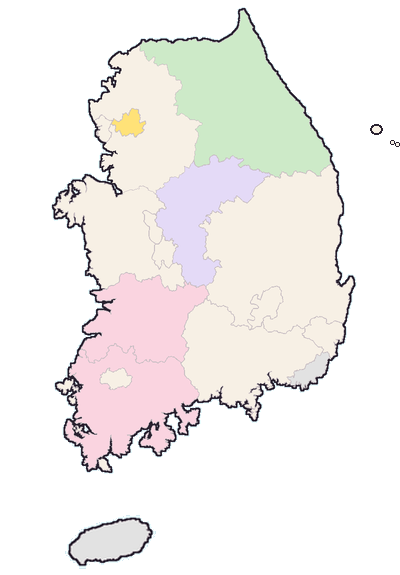
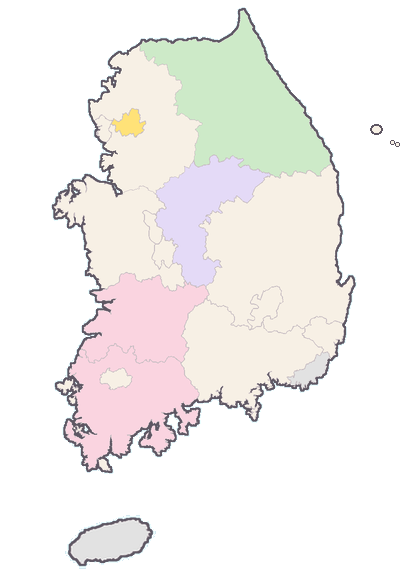
Add files via upload

diff --git a/js/main.js b/js/main.js
@@ -9,13 +9,13 @@
     // 인앱 브라우저(카톡·LINE)는 innerHeight가 실제 보이는 높이보다 크게 잡힐 때가 있어 가장 작은 값을 사용
     var vh = Math.min(window.innerHeight, document.documentElement.clientHeight || 9999, window.visualViewport ? window.visualViewport.height : 9999);
     var key = w + "x" + Math.round(vh / 20); if (key === lastW) return; lastW = key;
-    var bar = document.querySelector(".bar"), bh = bar ? bar.getBoundingClientRect().height + 24 : 100;
+    var bar = document.querySelector(".bar"), bh = bar ? bar.getBoundingClientRect().height + 10 : 100;
     var s = w / 390, avail = (vh - bh) / s;
     // 하늘색 박스는 항상 화면 폭. 짧은 화면: ① 박스 아래를 제주도 절반까지만 보이게 자르고(430) ② 그래도 모자라면 지도를 비율 그대로 축소
     // 제목과 박스 사이 간격은 8의 배수(28px)로 넉넉하게
-    var compact = avail < 700, top = compact ? 164 : 186;
+    var compact = avail < 700, top = compact ? 164 : 188;
     var full = 344 / 366, vis = compact ? 462 : 481; // vis: 박스에 보일 지도 높이(제주도 절반 = 462)
-    var mh = Math.min(vis * full, Math.max(320, avail - top - 14)), k = mh / vis;
+    var mh = Math.min(vis * full + 46, Math.max(320, avail - top - 4)), k = mh / vis;
     $("stage").classList.toggle("compact", compact);
     var mb = document.querySelector(".mapbox"); mb.style.top = top + "px"; mb.style.height = mh + "px"; mb.style.transform = "";
     var kk = Math.min(k, full); $("mapin").style.transform = "scale(" + kk + ")";
@@ -27,14 +27,18 @@
 
   // 슬라이드: 상세페이지 대표사진 5장과 동일 (첫 장만 메인용 세로 크롭)
   var JD = K.products["jeonju-damyang"], cmap = {}; JD.gallery.forEach(function (g) { cmap[g[0]] = g[1]; });
-  var imgs = JD.hero.map(function (k, i) { return i === 0 ? "jd_main1" : k; });
-  var caps = JD.heroCaps || JD.hero.map(function (k, i) { return i === 0 ? "冬の韓服でおさんぽ（全州）" : (cmap[k] || ""); });
+  var imgs = JD.hero.map(function (k, i) { return i === 0 ? "jd_main1" : k; }).concat(["jd_pnb", "jd_bg"]);
+  var caps = (JD.heroCaps || JD.hero.map(function (k, i) { return i === 0 ? "冬の韓服でおさんぽ（全州）" : (cmap[k] || ""); })).concat(["PNB 手作りチョコパイ（全州）", "バゲットバーガー（全州）"]);
   var sl = $("slides"), n = imgs.length, cur = -1;
   sl.innerHTML = imgs.map(function (k) { return '<div style="background-image:url(' + K.img(k) + ')"></div>'; }).join("");
   $("dots").innerHTML = imgs.map(function () { return "<i></i>"; }).join("");
   $("th").innerHTML = JD.hero.map(function (k, i) { return '<button style="background-image:url(' + K.img(i === 0 ? JD.thumb0 : k) + ')" aria-label="写真' + (i + 1) + '"></button>'; }).join("");
   K.dragScroll(sl);
   function go(i) { sl.scrollTo({ left: sl.clientWidth * i, behavior: "smooth" }); }
+  // 손가락을 따라 움직이다가, 놓을 때 30px 이상 밀었으면 다음/이전 장으로 (절반 넘기지 않아도 넘어감)
+  var tx = 0, ty = 0, tb = 0;
+  sl.addEventListener("touchstart", function (e) { var t = e.touches[0]; tx = t.clientX; ty = t.clientY; tb = Math.round(sl.scrollLeft / sl.clientWidth); }, { passive: true });
+  sl.addEventListener("touchend", function (e) { var t = e.changedTouches[0], dx = t.clientX - tx, dy = t.clientY - ty; if (Math.abs(dx) < 30 || Math.abs(dx) < Math.abs(dy)) return; go(Math.max(0, Math.min(n - 1, tb + (dx < 0 ? 1 : -1)))); }, { passive: true });
   function upd(force) {
     var i = Math.round(sl.scrollLeft / sl.clientWidth); if (i === cur && !force) return; cur = i;
     if ($("cnt")) $("cnt").textContent = (i + 1) + "/" + n; if ($("cap")) $("cap").textContent = caps[i];
@@ -83,7 +87,7 @@
     var lb = $("likeBox"), c = $("mainCta");
     lb.classList.add("empty"); $("jpTag").hidden = true; $("mcard").hidden = true; $("mapin").removeAttribute("data-sel"); document.querySelectorAll(".mtag .q").forEach(function (q) { q.textContent = "≒ ？"; });
     c.classList.add("off"); c.setAttribute("aria-disabled", "true"); c.href = "#"; c.removeAttribute("data-go");
-    $("ctaMain").textContent = "地図からエリアを選んでください"; $("ctaSub").textContent = "";
+    $("ctaMain").textContent = "タップしてチェック！"; $("ctaSub").textContent = "";
   }
   function setRegion(id) {
     var p = K.products[id], lb = $("likeBox"), c = $("mainCta"), j = JP[id], t = $("jpTag");
@@ -97,7 +101,7 @@
     lb.classList.remove("pop"); void lb.offsetWidth; lb.classList.add("pop");
   }
   var tt = $("totop"); window.addEventListener("scroll", function () { tt.classList.toggle("on", window.scrollY > 900); }, { passive: true }); tt.onclick = function () { window.scrollTo({ top: 0, behavior: "smooth" }); K.track("to_top", { product: "main" }); };
-  $("mainCta").addEventListener("click", function (e) { if (this.classList.contains("off")) { e.preventDefault(); K.toast("地図からエリアを選んでください"); } else K.track("select_item", { product: this.getAttribute("data-go"), place: "main_bar" }); });
+  $("mainCta").addEventListener("click", function (e) { if (this.classList.contains("off")) { e.preventDefault(); K.toast("タップしてチェック！"); } else K.track("select_item", { product: this.getAttribute("data-go"), place: "main_bar" }); });
   document.querySelectorAll("[data-region]").forEach(function (a) {
     a.addEventListener("click", function (e) {
       e.preventDefault(); var id = a.getAttribute("data-region"), off = a.classList.contains("on");
@@ -119,5 +123,5 @@
   sn.innerHTML = h;
 
   if ($("share")) $("share").onclick = function () { K.share({ title: "ここいこ｜ソウル発 日帰り韓国旅", text: "ソウルの外へ、本当の韓国を感じる旅。", medium: "main", content: "main" }); };
-  if ($("lineTop")) $("lineTop").onclick = function (e) { e.preventDefault(); K.track("line_click", { place: "main_header" }); if (K.LINE_ADD_URL) location.href = K.LINE_ADD_URL; else K.toast("LINE公式アカウントは準備中です"); };
+  if ($("lineTop")) $("lineTop").onclick = function (e) { e.preventDefault(); K.track("line_click", { place: "main_header" }); if (K.LINE_ADD_URL) location.href = K.LINE_ADD_URL; else K.toast("ただいま準備中です"); };
 })();

diff --git a/js/product.js b/js/product.js
@@ -104,7 +104,7 @@
     '<div class="sec"><div class="chips">' + (p.ichioshi ? '<span class="c-ichi">イチオシ</span>' : '') + '<span class="c-season' + (p.season.tone ? ' ' + p.season.tone : '') + '">' + K.icon(p.season.icon, "currentColor", 14) + p.season.label + '</span></div>' +
       '<h1>' + p.name + '</h1><div class="sub">ソウル発 日帰り ・ ' + p.timeShort + ' ・ 送迎バス付き</div>' +
       '<a class="rvrow" href="#voices">' + K.icon("star", "#F5A623", 17) + '<b>' + (vAvg || "0.0") + '</b><i>・</i><u>レビュー ' + V.length + '件</u></a>' +
-      '<div class="locrow">' + K.icon("pin", "#9A929E", 17) + '<span>' + K.MEETING.ja + '</span><a href="' + K.MEETING.map + '" target="_blank" rel="noopener" id="gmap0">地図を見る</a></div>' +
+      '<div class="locrow">' + K.icon("pin", "#9A929E", 17) + '<span>' + K.MEETING.ja + '</span><a href="#meetmap" id="gmap0">詳しい場所</a></div>' +
       '</div>' +
     voicesHtml() +
     '<div class="sec" id="pick"><div class="h2row"><h2>いつ参加しますか？</h2><button class="calk" id="calOpen">' + CAL + 'カレンダーで見る ›</button></div>' +
@@ -117,7 +117,7 @@
     (p.reviews && p.reviews.length ? '<div class="sec"><h2>体験レビュー</h2><div class="rv">' + p.reviews.map(function (r) { return '<div style="background-image:url(' + img(r) + ')"></div>'; }).join("") + '</div></div>' : '') + // 후기 사진이 생기면 data.js 에 reviews: ["파일명", ...] 추가
     '<div class="sec warnsec"><div class="warn"><div class="wt">' + K.icon("warn", "#C82158", 19) + 'ご予約前に必ずご確認ください</div>' + K.warn.map(function (w, i) { return '<div class="wc"><b><i class="wn">' + (i + 1) + '</i>' + w[0] + '</b><p>' + w[1] + '</p></div>'; }).join("") + '</div></div>' +
     '<div class="sec"><h2 style="margin-bottom:12px">集合場所</h2>' +
-      '<div class="mpc"><div class="mpm"><iframe loading="lazy" tabindex="-1" aria-hidden="true" title="集合場所の地図" src="https://maps.google.com/maps?q=%EC%9E%A0%EC%8B%A4%EC%97%AD&z=15&hl=ja&output=embed"></iframe>' +
+      '<div class="mpc" id="meetmap"><div class="mpm"><iframe loading="lazy" tabindex="-1" aria-hidden="true" title="集合場所の地図" src="https://maps.google.com/maps?q=%EC%9E%A0%EC%8B%A4%EC%97%AD&z=15&hl=ja&output=embed"></iframe>' +
         '<a class="mlink" href="' + K.MEETING.map + '" target="_blank" rel="noopener" id="gmap" aria-label="Googleマップで開く"></a><i class="mpin">' + PIN + '</i>' +
         '<span class="gbadge"><b>G</b><b>o</b><b>o</b><b>g</b><b>l</b><b>e</b></span><span class="mexp">' + EXP + '</span></div>' +
         '<a class="mrow" href="' + K.MEETING.map + '" target="_blank" rel="noopener" id="gmap2"><b>' + K.MEETING.ja + '</b><i>›</i></a>' +
@@ -142,7 +142,15 @@
   var $ = function (x) { return document.getElementById(x); };
 
   // 상단 바: 사진을 지나면 흰 바
-  function onScroll() { $("dtop").classList.toggle("solid", window.scrollY > $("dhero").offsetHeight - 60); }
+  // V25: 내리면 숨기고, 올리면 다시 나타남 (사진 구간에서는 항상 보임)
+  var lastY = window.scrollY;
+  function onScroll() {
+    var y = window.scrollY, past = y > $("dhero").offsetHeight - 60, d = y - lastY, bar = $("dtop");
+    bar.classList.toggle("solid", past);
+    if (!past) { bar.classList.remove("hide"); lastY = y; }
+    else if (d > 8) { bar.classList.add("hide"); lastY = y; }
+    else if (d < -8) { bar.classList.remove("hide"); lastY = y; }
+  }
   window.addEventListener("scroll", onScroll, { passive: true }); onScroll();
   $("shareTop").onclick = function () { K.share({ title: p.title + "｜ここいこ", text: "ソウル発 日帰り ≒ " + p.like, medium: "detail", content: id }); };
 
@@ -217,8 +225,9 @@
     if (navigator.clipboard) navigator.clipboard.writeText(t).then(ok, ok); else ok();
     K.track("copy_address", { product: id });
   };
-  document.querySelectorAll("[data-vinv]").forEach(function (el) { el.addEventListener("click", function (e) { K.track("review_invite", { product: id }); if (!K.LINE_ADD_URL) { e.preventDefault(); K.toast("LINE公式アカウントは準備中です"); } }); });
-  ["gmap0", "gmap", "gmap2"].forEach(function (g) { $(g).addEventListener("click", function () { K.track("open_map", { product: id, place: g }); }); });
+  document.querySelectorAll("[data-vinv]").forEach(function (el) { el.addEventListener("click", function (e) { K.track("review_invite", { product: id }); if (!K.LINE_ADD_URL) { e.preventDefault(); K.toast("ただいま準備中です"); } }); });
+  ["gmap", "gmap2"].forEach(function (g) { $(g).addEventListener("click", function () { K.track("open_map", { product: id, place: g }); }); });
+  $("gmap0").addEventListener("click", function (e) { e.preventDefault(); K.track("open_map", { product: id, place: "gmap0" }); $("meetmap").scrollIntoView({ behavior: "smooth", block: "center" }); });
 
   // ---------- 예약 선택 (상세·캘린더 시트 공통: 날짜 → 시간·집합장소 → 인원) ----------
   function save() {}
@@ -303,7 +312,7 @@
   $("sGo").onclick = function () { goCheckout(sp); };
   $("wait").onclick = function (e) {
     e.preventDefault(); K.track("waitlist_click", { product: id, date: sp.date });
-    if (K.LINE_ADD_URL) location.href = K.LINE_ADD_URL; else K.toast("LINE公式アカウントは準備中です");
+    if (K.LINE_ADD_URL) location.href = K.LINE_ADD_URL; else K.toast("ただいま準備中です");
   };
 
   K.getDates(p).then(function (d) {
@@ -313,4 +322,11 @@
   });
   K.fillYen().then(render);
   K.track("view_item", { product: id, value: p.priceKrw, currency: "KRW" });
+
+  // 상세 히어로 영상: 재생 중이면 playing 클래스로 플레이 아이콘 숨김
+  [].forEach.call(document.querySelectorAll(".hv video"), function (v) {
+    var box = v.parentNode;
+    v.addEventListener("playing", function () { box.classList.add("playing"); });
+    v.addEventListener("pause", function () { box.classList.remove("playing"); });
+  });
 })();

diff --git a/index.html b/index.html
@@ -27,15 +27,15 @@
       <div class="mapin" id="mapin">
       <img src="assets/img/map.png" alt="韓国の地図">
       <svg width="328" height="472" viewBox="0 0 400 575">
-<g class="routes" fill="none" stroke="#C82158" stroke-width="3.5" stroke-dasharray="7 7" stroke-linecap="round"><path data-r="gangneung" d="M128 122 C180 95 250 100 296 124"/><path data-r="danyang" d="M128 122 C170 150 220 170 250 182"/><path data-r="jeonju-damyang" d="M128 122 C120 200 130 280 145 318"/></g>
+<g class="routes" fill="none" stroke="#C82158" stroke-width="3.5" stroke-dasharray="7 7" stroke-linecap="round"><path data-r="gangneung" d="M128 122 C180 95 250 100 296 124"/><path data-r="danyang" d="M128 122 C170 150 220 170 250 182"/><path data-r="jeonju-damyang" d="M128 122 C120 200 130 276 145 313"/></g>
 <g class="rlabs"><text class="rlab" data-r="gangneung" x="158" y="93">2.5h</text><text class="rlab" data-r="danyang" x="199" y="146">3.5h</text><text class="rlab" data-r="jeonju-damyang" x="112" y="220" text-anchor="end">4h</text></g>
 <circle cx="128" cy="122" r="10" fill="#C82158" stroke="#fff" stroke-width="4"/>
-<g class="dests"><path class="pin" data-r="gangneung" d="M 296 124 C 288 114 285 110 285 105 A 11 11 0 1 1 307 105 C 307 110 304 114 296 124 Z"/><circle class="pind" data-r="gangneung" cx="296" cy="105" r="4.2"/><path class="pin" data-r="danyang" d="M 250 182 C 242 172 239 168 239 163 A 11 11 0 1 1 261 163 C 261 168 258 172 250 182 Z"/><circle class="pind" data-r="danyang" cx="250" cy="163" r="4.2"/><path class="pin" data-r="jeonju-damyang" d="M 145 318 C 137 308 134 304 134 299 A 11 11 0 1 1 156 299 C 156 304 153 308 145 318 Z"/><circle class="pind" data-r="jeonju-damyang" cx="145" cy="299" r="4.2"/></g>
+<g class="dests"><path class="pin" data-r="gangneung" d="M 296 124 C 288 114 285 110 285 105 A 11 11 0 1 1 307 105 C 307 110 304 114 296 124 Z"/><circle class="pind" data-r="gangneung" cx="296" cy="105" r="4.2"/><path class="pin" data-r="danyang" d="M 250 182 C 242 172 239 168 239 163 A 11 11 0 1 1 261 163 C 261 168 258 172 250 182 Z"/><circle class="pind" data-r="danyang" cx="250" cy="163" r="4.2"/><path class="pin" data-r="jeonju-damyang" d="M 145 313 C 137 303 134 299 134 294 A 11 11 0 1 1 156 294 C 156 299 153 303 145 313 Z"/><circle class="pind" data-r="jeonju-damyang" cx="145" cy="294" r="4.2"/></g>
 </svg>
       <span class="mtag plain" style="left:56px;top:106px">ソウル発</span>
-      <a class="mtag" href="#gn" data-region="gangneung" style="left:262px;top:49px"><span class="nm2"><span class="rb">カンヌン</span><span class="nmain">江陵 <span class="q" data-q="gangneung">≒ ？</span></span></span></a>
-      <a class="mtag" href="#dy" data-region="danyang" style="left:262px;top:192px"><span class="nm2"><span class="rb">タニャン</span><span class="nmain">丹陽 <span class="q" data-q="danyang">≒ ？</span></span></span></a>
-      <a class="mtag" href="#jd" data-region="jeonju-damyang" style="left:172px;top:302px"><span class="nm2"><span class="rb">チョンジュ・タミャン</span><span class="nmain">全州・潭陽 <span class="q" data-q="jeonju-damyang">≒ ？</span></span></span></a>
+      <a class="mtag" href="#gn" data-region="gangneung" style="left:262px;top:41px"><span class="nm2"><span class="rb">カンヌン</span><span class="nmain">江陵 <span class="q" data-q="gangneung">≒ ？</span></span></span></a>
+      <a class="mtag" href="#dy" data-region="danyang" style="left:268px;top:198px"><span class="nm2"><span class="rb">タニャン</span><span class="nmain">丹陽 <span class="q" data-q="danyang">≒ ？</span></span></span></a>
+      <a class="mtag" href="#jd" data-region="jeonju-damyang" style="left:172px;top:322px"><span class="nm2"><span class="rb">チョンジュ・タミャン</span><span class="nmain">全州・潭陽 <span class="q" data-q="jeonju-damyang">≒ ？</span></span></span></a>
       <span class="kyoto" id="jpTag" hidden>≒ 京都</span>
       <span class="hint2"><svg width="15" height="15" viewBox="0 0 24 24" fill="none" stroke="currentColor" stroke-width="1.8" stroke-linecap="round" stroke-linejoin="round"><path d="M9 11V5.5a1.5 1.5 0 0 1 3 0V11"/><path d="M12 10.5V9a1.5 1.5 0 0 1 3 0v2"/><path d="M15 10.5a1.5 1.5 0 0 1 3 0V15a6 6 0 0 1-6 6h-.6a6 6 0 0 1-4.6-2.2L4.5 16a1.6 1.6 0 0 1 2.4-2.1L9 16"/></svg>タップして選んでね</span>
       </div>
@@ -72,7 +72,7 @@
     </a>
     <a href="danyang.html" id="dy" data-go="danyang">
       <div class="stack">
-        <div class="im" style="background-image:url(assets/img/dy_gs.jpg)"></div>
+        <div class="im" style="background-image:url(assets/img/dy_hero.jpg)"></div>
         <div class="im" style="background-image:url(assets/img/dy_c2.jpg)"></div>
         <div class="im" style="background-image:url(assets/img/dy_c3.jpg)"></div>
       </div>
@@ -90,7 +90,7 @@
 <div class="hint1"><svg width="15" height="15" viewBox="0 0 24 24" fill="none" stroke="currentColor" stroke-width="1.8" stroke-linecap="round" stroke-linejoin="round"><path d="M9 11V5.5a1.5 1.5 0 0 1 3 0V11"/><path d="M12 10.5V9a1.5 1.5 0 0 1 3 0v2"/><path d="M15 10.5a1.5 1.5 0 0 1 3 0V15a6 6 0 0 1-6 6h-.6a6 6 0 0 1-4.6-2.2L4.5 16a1.6 1.6 0 0 1 2.4-2.1L9 16"/></svg>行きたいエリアをタップ</div>
 <div class="bar lg">
   <div class="bprice" id="mainBp" hidden><span id="bpLabel"></span><div><b id="bpYen"></b><small id="bpKrw"></small></div></div>
-  <a class="cta off" id="mainCta" href="#" aria-disabled="true"><span id="ctaMain">地図からエリアを選んでください</span><small id="ctaSub"></small></a>
+  <a class="cta off" id="mainCta" href="#" aria-disabled="true"><span id="ctaMain">タップしてチェック！</span><small id="ctaSub"></small></a>
 </div>
 <script src="js/data.js?v=24"></script>
 <script src="js/common.js?v=24"></script>

diff --git a/js/data.js b/js/data.js
@@ -102,7 +102,7 @@ season: { label: "雪景色 12〜2月", icon: "snow", months: [12, 1, 2] },
       priceKrw: 90000, time: "07:30 出発 ～ 22:30頃 到着", timeShort: "07:30〜22:30頃",
       season: { label: "GW・新緑 4〜5月", icon: "flower", tone: "gw", months: [4, 5] },
       sellDays: [6], gwDates: ["2027-04-29", "2027-05-01", "2027-05-03", "2027-05-04", "2027-05-05"],
-      hero: ["dy_gs", "dy_g3", "dy_g2", "dy_tk"],
+      hero: ["dy_hero", "dy_g3", "dy_g2", "dy_tk"],
       solo: { trans: 154720, entry: 4000, total: 158720, bus: "現地移動だけで<br>約4時間半" },
       legs: [["ソウル（東ソウル）"], ["bus", "バス<sup>＊</sup>", 28100], ["救仁寺"], ["bus", "バス<sup>＊</sup>", 1650], ["グギョン市場"], ["taxi", "タクシー<sup>＊</sup>", 10850], ["スカイウォーク"], ["taxi", "入場料＋タクシー<sup>＊</sup>", 18600], ["島潭三峰"], ["train", "バス＋KTX＋地下鉄", 18600], ["ソウル"]],
       rides: 6,
@@ -117,14 +117,14 @@ season: { label: "雪景色 12〜2月", icon: "snow", months: [12, 1, 2] },
         blocks: [
           { img: "dy_b1", t: "救仁寺（クインサ）", c: "山寺", p: "小白山の谷あいに、色鮮やかなお堂がずらりと並ぶ大寺院。鮮やかな彩色と山の緑に、思わず見とれます。" },
           { img: "dy_b2", t: "丹陽グギョン市場", c: "食べ歩き", p: "名物のにんにくを使ったグルメがずらり。ローカルな活気の中で、自由昼食と食べ歩きを楽しめます。" },
-          { img: "dy_b3", t: "万天下スカイウォーク", c: "絶景", p: "らせん状の展望台を歩いて上ると、眼下に南漢江と丹陽の町並みが一望。空中を歩くようなスリルも。" }
+          { img: "need:만천하 스카이워크", t: "万天下スカイウォーク", c: "絶景", p: "らせん状の展望台を歩いて上ると、眼下に南漢江と丹陽の町並みが一望。空中を歩くようなスリルも。" }
         ],
         food: { kTitle: "K-スイーツ", imgs: [["dy_f1", "黒にんにくパン"], ["dy_f2", "山菜ビビンバ"]], p: "丹陽はにんにくの名産地。市場名物の「黒にんにくパン」や、山の幸たっぷりのビビンバをぜひ。" },
         rec: ["少し高いところから、川の景色をゆっくり眺めたい", "石灰岩がつくる、川に浮かぶ不思議な岩を見てみたい", "“にんにくの里”の名物グルメを、市場で食べ歩きたい"]
       },
-      gallery: [["dy_gs", "万天下スカイウォーク"], ["dy_g3", "救仁寺（クインサ）"], ["dy_g2", "市場の看板猫"], ["dy_tk", "黒にんにくパン"], ["dy_hj", "山菜ビビンバ"]],
+      gallery: [["dy_hero", "小白山（ソベクサン）"], ["dy_g3", "救仁寺（クインサ）"], ["dy_g2", "市場の看板猫"], ["dy_tk", "黒にんにくパン"], ["dy_hj", "山菜ビビンバ"]],
       schedule: [["07:30", "ソウル（蚕室駅）集合・出発"], ["11:00", "救仁寺（自由観光）"], ["13:10", "グギョン市場（自由昼食・食べ歩き）"], ["14:30", "万天下スカイウォーク"], ["16:20", "島潭三峰（トダムサムボン）"], ["17:20", "地元の人気店で自由夕食"], ["18:30 → 22:00〜22:30", "ソウル到着・解散"]],
-      credit: "写真：丹陽郡公式（Instagram）、韓国観光公社"
+      credit: "写真：韓国観光公社"
     }
   },
 

diff --git a/css/style.css b/css/style.css
@@ -947,3 +947,53 @@ footer .cl{text-decoration:underline;text-underline-offset:3px}
 /* meeting-place map: Google colours with saturation slightly lowered (no grey filter, no blue tint) */
 .mpm iframe{filter:grayscale(1) contrast(.75) brightness(1.12)!important}
 .mpm:after{display:none!important}
+/* V25: detail top bar hides on scroll down, returns on scroll up */
+.dtop{transition:background .2s,transform .25s ease}
+.dtop.hide{transform:translateX(-50%) translateY(-100%)}
+/* ===== V25 main ===== */
+/* 1 header up */
+.stage .hd{top:18px}
+/* 3 map labels: bigger, use the blue sea area */
+.mtag:not(.plain){font-size:15.5px}
+.nm2 .rb{font-size:11.5px}
+.mtag .q{font-size:15px;padding:3.75px 11.25px;margin-left:7.5px}
+.mtag.plain{font-size:16.5px}
+.mapbox svg .rlab{font-size:18px}
+/* 4 main bar: always visible (disabled state), same white bar as detail */
+.bar:has(.cta.off){transform:translate(-50%,0)}
+body:has(.cta.off) .barbg{opacity:1}
+.bar.lg{background:none!important;border:0!important;box-shadow:none!important;padding:8px!important}
+/* V25 chips: one box model for every season chip (fixed height, centered both ways) */
+.chip.snow,.mcard .ms,.c-season,.big .g .trow .chip.snow{box-sizing:border-box!important;height:24px!important;padding:2px 8px 0 10px!important;line-height:1!important;display:inline-flex!important;align-items:center!important;justify-content:center!important}
+.chip.snow>*,.mcard .ms>*,.c-season>*{line-height:1}
+/* V25 map moved down */
+.mapin{top:2px!important}
+/* V25 tap effect A: no bounce, no idle shake, 0.2s colour fade only */
+.mtag,.mtag .q{transition:background-color .2s ease,border-color .2s ease,color .2s ease}
+.mtag .q,.mtag.on .q,.mcard.pop #mName,.mcard.pop #mLike{animation:none!important}
+/* V25 no tap highlight / text selection on cards and buttons */
+a,button,.mtag,.cta,.big,.big *,.ichi-card,.mcard,.slides,.slides *{-webkit-tap-highlight-color:transparent}
+.big,.big *,.mtag,.mtag *,.mcard,.mcard *,.bar,.bar *{-webkit-user-select:none;user-select:none;-webkit-touch-callout:none}
+.slides>div{scroll-snap-stop:always}
+.mapbox svg.kmap{pointer-events:none}
+/* V25 main: title block up 8px, region labels: even side padding + roomier row gap */
+.stage .hero{top:72px}
+.stage.compact .hero{top:64px}
+.mtag:not(.plain){height:53px!important;box-sizing:border-box!important;padding:0 16.1px 0 16.4px!important;align-items:center!important}
+.mtag:not(.plain) .nm2{transform:translateY(-1px)}
+.nm2{gap:4px}
+.stage.compact .mtag[data-region="jeonju-damyang"]{left:172px!important;top:308px!important}
+
+.chip.snow svg,.mcard .ms svg,.c-season svg,.big .g .trow .chip svg{width:1em!important;height:1em!important;margin:0!important}
+.mcard{bottom:6px!important}
+body:has(#mainCta) .toast{bottom:87px}
+
+.toast{padding:7px 16px!important}
+.vplay{transition:opacity .25s ease}
+.playing .vplay{opacity:0;transition:opacity .4s ease 1s}
+
+.mprice{margin-top:8px!important}
+
+.info b{color:inherit}
+
+.mpm iframe{filter:saturate(.4) brightness(1.08) contrast(.92)!important}

diff --git a/success.html b/success.html
@@ -58,7 +58,7 @@
         '<p class="note" style="text-align:center;margin-top:14px">ご予約の確認・出発のご案内はLINEでお送りします。</p></div>';
       var url = location.origin + "/" + p.page;
       document.getElementById("shFriend").onclick = function () { K.share({ url: url, title: p.title + "｜ここいこ", text: "一緒に行かない？ソウル発の日帰り旅 ≒ " + p.like, medium: "complete", content: p.id }); };
-      document.getElementById("lineBtn").onclick = function (e) { e.preventDefault(); K.track("line_click", { place: "complete" }); if (K.LINE_ADD_URL) location.href = K.LINE_ADD_URL; else K.toast("LINE公式アカウントは準備中です"); };
+      document.getElementById("lineBtn").onclick = function (e) { e.preventDefault(); K.track("line_click", { place: "complete" }); if (K.LINE_ADD_URL) location.href = K.LINE_ADD_URL; else K.toast("ただいま準備中です"); };
     })
     .catch(function () { fail("NETWORK", "通信エラーが発生しました。"); });
 })();

diff --git a/js/common.js b/js/common.js
@@ -138,7 +138,7 @@
   document.addEventListener("click", function (e) {
     var a = e.target.closest("a[data-ch]"); if (!a) return;
     K.track("contact_click", { channel: a.getAttribute("data-ch") });
-    if (a.hasAttribute("data-soon")) { e.preventDefault(); K.toast("お問い合わせ窓口は準備中です"); }
+    if (a.hasAttribute("data-soon")) { e.preventDefault(); K.toast("ただいま準備中です"); }
   });
 
   // 마우스로도 가로 사진 슬라이드 끌어서 넘기기 (PC)
